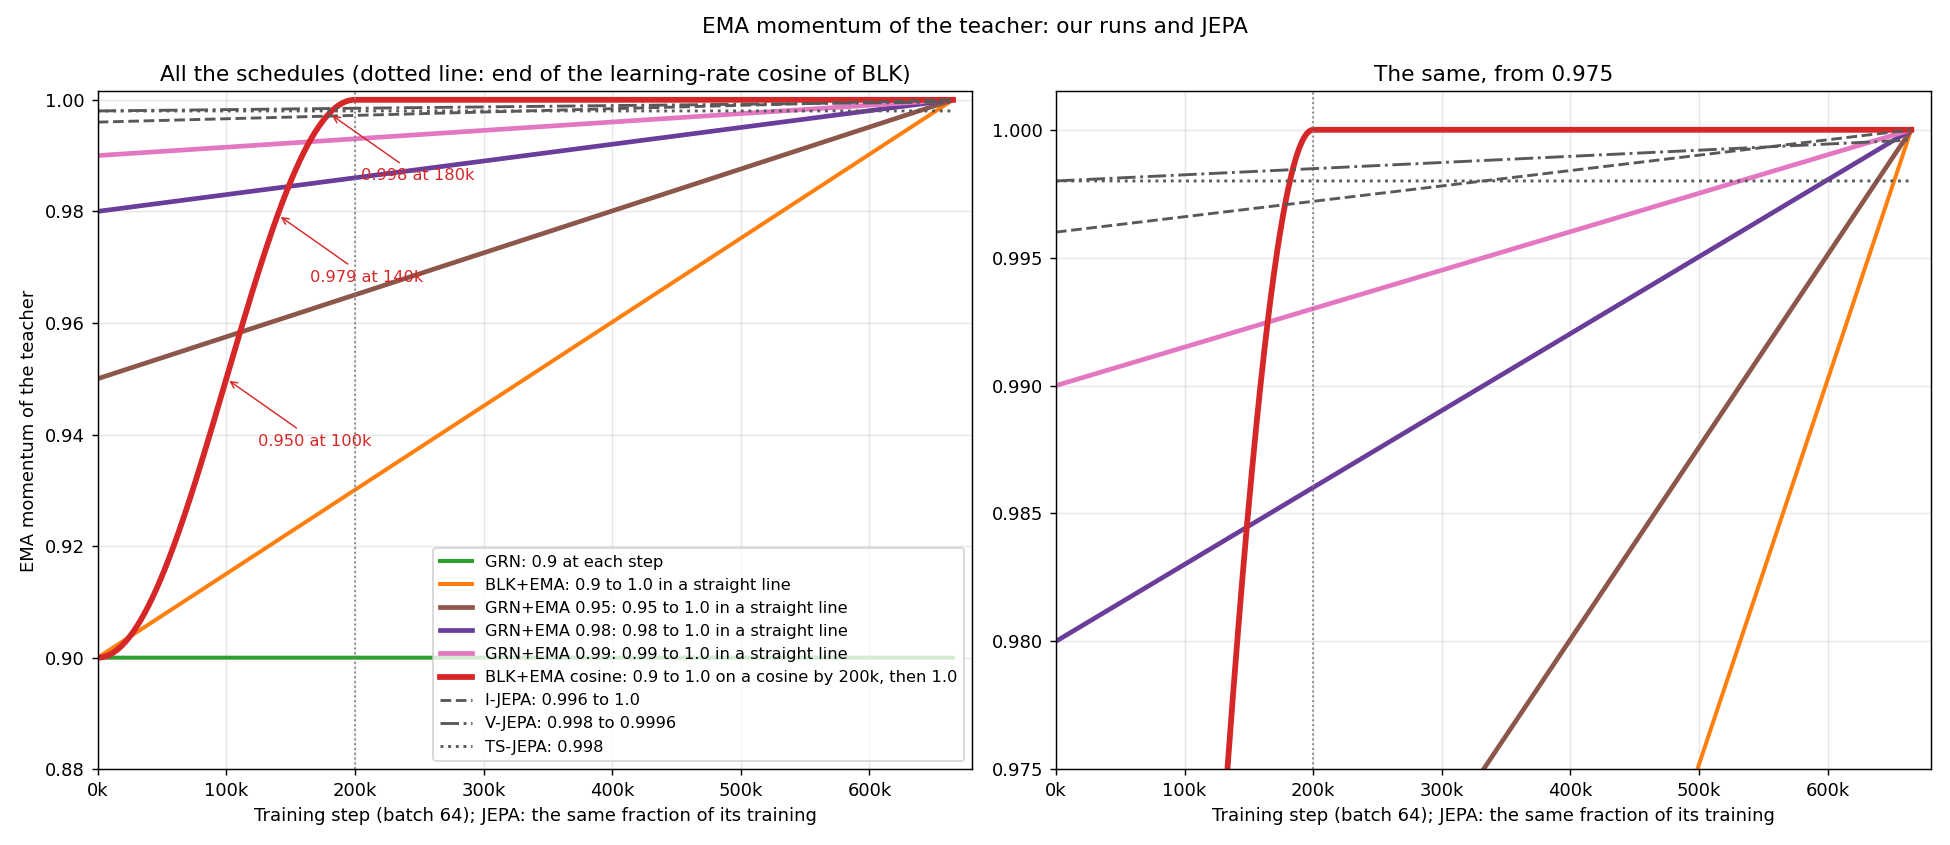
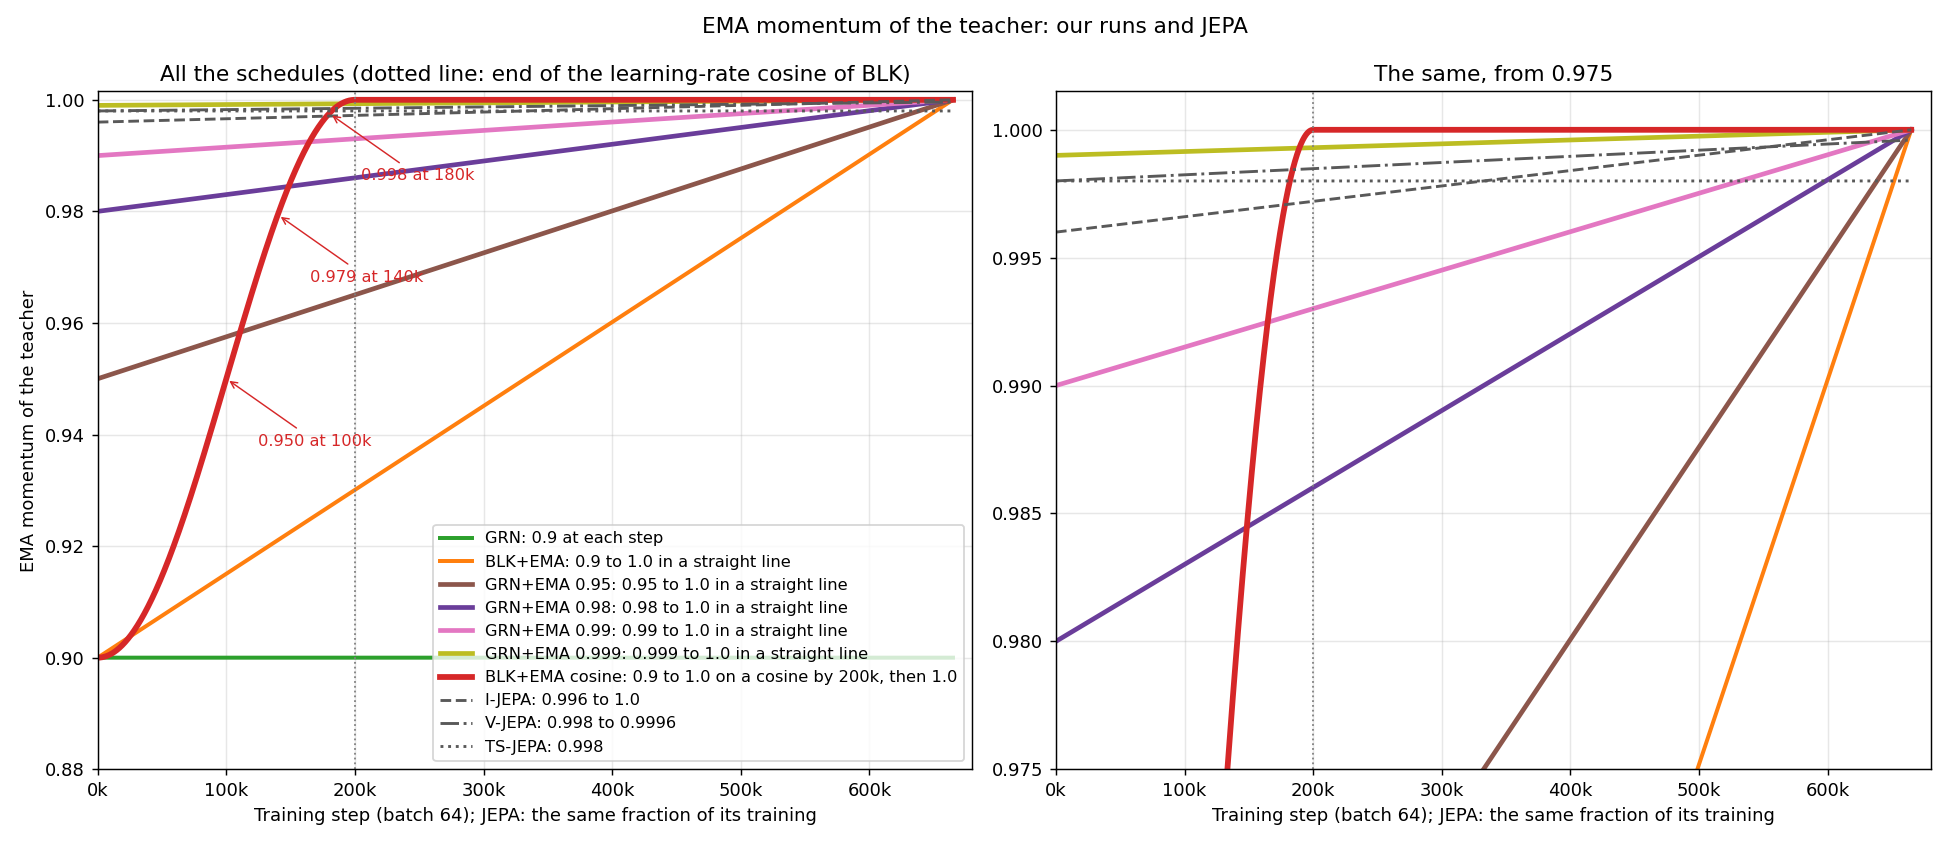
freq_family: GRN+EMA 0.999 (run grn_ema0999, owner 10-15) in the figure scripts (olive), and its EMA schedule in the EMA plan figure

Changed region(s): [[0.2154, 0.6154, 0.4308, 0.8], [0.5538, 0.1538, 0.9538, 0.1846], [0.0615, 0.1231, 0.1538, 0.1538]]

diff --git a/reports/2026-10-10_frequency_family_head/scripts/plot_green_scores.py b/reports/2026-10-10_frequency_family_head/scripts/plot_green_scores.py
@@ -1,7 +1,7 @@
 """The forecast and the reconstruction of the encoder latent through training,
 for the runs of this report (GRN, BLK+EMA, GRN+EMA 0.95, GRN+EMA 0.98, GRN+EMA
-0.99, BLK+EMA cosine) next to ABC, CYN and BLK. Writes plots/forecast_and_reconstruction.png: three panels
-on one x axis.
+0.99, GRN+EMA 0.999, BLK+EMA cosine) next to ABC, CYN and BLK. Writes
+plots/forecast_and_reconstruction.png: three panels on one x axis.
 
   1. Forecast (B4): the forecaster rolls the latents forward, and the
      standard reconstruction head decodes each rolled latent.
@@ -15,7 +15,7 @@ Reads the scores of ABC, CYN and BLK of #412 and #425
 reports/2026-10-06_encoder_reconstruction/results/*.tsv), and the scores of
 the runs of this report (GRN: arm abc_gift, BLK+EMA: arm blk_ema, GRN+EMA 0.95:
 arm grn_ema095, GRN+EMA 0.98: arm grn_ema098, GRN+EMA 0.99: arm grn_ema099,
-BLK+EMA cosine: arm blk_emacos): results/scores.tsv (B4, arm
+GRN+EMA 0.999: arm grn_ema0999, BLK+EMA cosine: arm blk_emacos): results/scores.tsv (B4, arm
 `control`), and results/recon_*.tsv (R, with the columns arm, stop in
 thousands of steps, GM-Relative MASE; collect_recon.py writes them).
 The point at 1k steps of GRN, BLK and ABC is a run of the first 1,000 steps
@@ -50,12 +50,14 @@ GRN_EMA = "grn_ema098"
 GRN_EMA_COLOUR = "#6a3d9a"  # its colour in plot_ema_plan.py
 GRN_EMA099 = "grn_ema099"
 GRN_EMA099_COLOUR = "#e377c2"  # its colour in plot_ema_plan.py
+GRN_EMA0999 = "grn_ema0999"
+GRN_EMA0999_COLOUR = "#bcbd22"  # its colour in plot_ema_plan.py
 GRN_EMA095 = "grn_ema095"
 GRN_EMA095_COLOUR = "#8c564b"  # its colour in plot_ema_plan.py
 BLK_EMACOS = "blk_emacos"
 BLK_EMACOS_COLOUR = "#d62728"  # its colour in plot_ema_plan.py
 # The runs of this report: their forecast comes from results/scores.tsv.
-NEW_RUNS = [GREEN, BLK_EMA, GRN_EMA095, GRN_EMA, GRN_EMA099, BLK_EMACOS]
+NEW_RUNS = [GREEN, BLK_EMA, GRN_EMA095, GRN_EMA, GRN_EMA099, GRN_EMA0999, BLK_EMACOS]
 # Older runs with a forecast at 1k steps in results/scores.tsv: arm -> run.
 FIRST_STEPS = {"cf419_cos200k": "blk", P + "_lr10x": "abc"}
 OUT = STUDY / "plots" / "forecast_and_reconstruction.png"
@@ -68,6 +70,8 @@ RUNS = [
      GRN_EMA_COLOUR, "X"),
     (GRN_EMA099, r"$\mathbf{GRN+EMA\ 0.99}$  as GRN, EMA of the teacher 0.99 to 1.0 over 665k",
      GRN_EMA099_COLOUR, "h"),
+    (GRN_EMA0999, r"$\mathbf{GRN+EMA\ 0.999}$  as GRN, EMA of the teacher 0.999 to 1.0 over 665k",
+     GRN_EMA0999_COLOUR, ">"),
     (BLK_EMA, r"$\mathbf{BLK+EMA}$  as BLK, EMA of the teacher 0.9 to 1.0 over 665k",
      BLK_EMA_COLOUR, "P"),
     (BLK_EMACOS, r"$\mathbf{BLK+EMA\ cosine}$  as BLK, EMA of the teacher 0.9 to 1.0 on a cosine "
@@ -80,8 +84,8 @@ RUNS = [
 ]
 OURS = STUDY / "results"
 # The R tables of collect_recon.py (first_steps: the 1k point of BLK and ABC).
-OUR_R_TABLES = ["green", "blk_ema", "grn_ema095", "grn_ema098", "grn_ema099", "blk_emacos",
-                "first_steps"]
+OUR_R_TABLES = ["green", "blk_ema", "grn_ema095", "grn_ema098", "grn_ema099", "grn_ema0999",
+                "blk_emacos", "first_steps"]
 # panel title, y range, the score tables, and whether the forecast of the
 # runs of this report comes from results/scores.tsv
 PANELS = [

diff --git a/reports/2026-10-10_frequency_family_head/scripts/plot_ema_plan.py b/reports/2026-10-10_frequency_family_head/scripts/plot_ema_plan.py
@@ -5,7 +5,8 @@ schedules of I-JEPA, V-JEPA and TS-JEPA. Writes plots/ema_schedule_plan.png.
   BLK+EMA   0.9 to 1.0 in a straight line over 665,000 steps
   GRN+EMA   0.98 to 1.0 in a straight line over the whole run: 1.0 only at
             step 665,000 (the owner, 10-12; run grn_ema098); the same from
-            0.99 (grn_ema099) and from 0.95 (grn_ema095)
+            0.99 (grn_ema099), from 0.95 (grn_ema095) and from 0.999
+            (grn_ema0999, the owner, 10-15)
   BLK+EMA cosine  0.9 to 1.0 on a cosine over the first 200,000 steps, the
             span of the learning-rate cosine of BLK, then 1.0: a frozen
             teacher (the owner, 10-13; run blk_emacos)
@@ -43,7 +44,8 @@ def draw_ours(ax, steps):
     ax.plot(steps, np.full_like(steps, 0.9), color="#2ca02c", lw=2.2, label="GRN: 0.9 at each step")
     ax.plot(steps, 0.9 + 0.1 * steps / TOTAL, color="#ff7f0e", lw=2.2,
             label="BLK+EMA: 0.9 to 1.0 in a straight line")
-    for start, colour in ((0.95, "#8c564b"), (0.98, "#6a3d9a"), (0.99, "#e377c2")):
+    for start, colour in ((0.95, "#8c564b"), (0.98, "#6a3d9a"), (0.99, "#e377c2"),
+                          (0.999, "#bcbd22")):
         ax.plot(steps, start + (1.0 - start) * steps / TOTAL, color=colour, lw=2.6,
                 label=f"GRN+EMA {start}: {start} to 1.0 in a straight line")
     ax.plot(steps, cosine_ramp(steps, 0.9, 1.0, COSINE_SPAN), color="#d62728", lw=3.2,

diff --git a/reports/2026-10-10_frequency_family_head/scripts/collect_recon.py b/reports/2026-10-10_frequency_family_head/scripts/collect_recon.py
@@ -22,7 +22,8 @@ from pathlib import Path
 RESULTS = Path(__file__).resolve().parent.parent / "results"
 # arm -> table
 TABLES = {"abc_gift": "green", "blk_ema": "blk_ema", "grn_ema095": "grn_ema095",
-          "grn_ema098": "grn_ema098", "grn_ema099": "grn_ema099", "blk_emacos": "blk_emacos",
+          "grn_ema098": "grn_ema098", "grn_ema099": "grn_ema099", "grn_ema0999": "grn_ema0999",
+          "blk_emacos": "blk_emacos",
           "cf419_cos200k": "first_steps",
           "k3_r100_09_lr56_fix09_dec10k_lr10x": "first_steps"}
 SCORE_FILE = re.compile(r"score_(.+)_bb(\d+)k_h30k_recon(_lin)?\.txt$")
